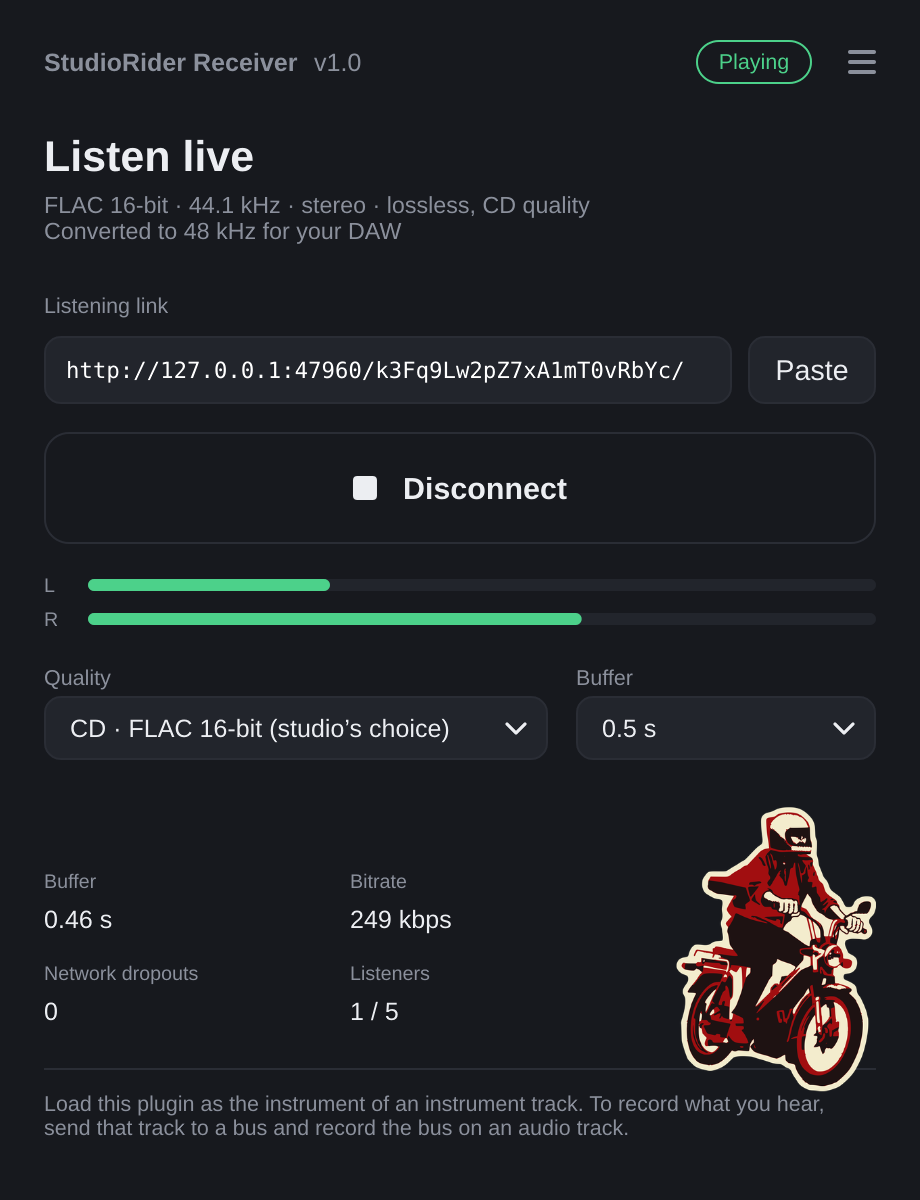
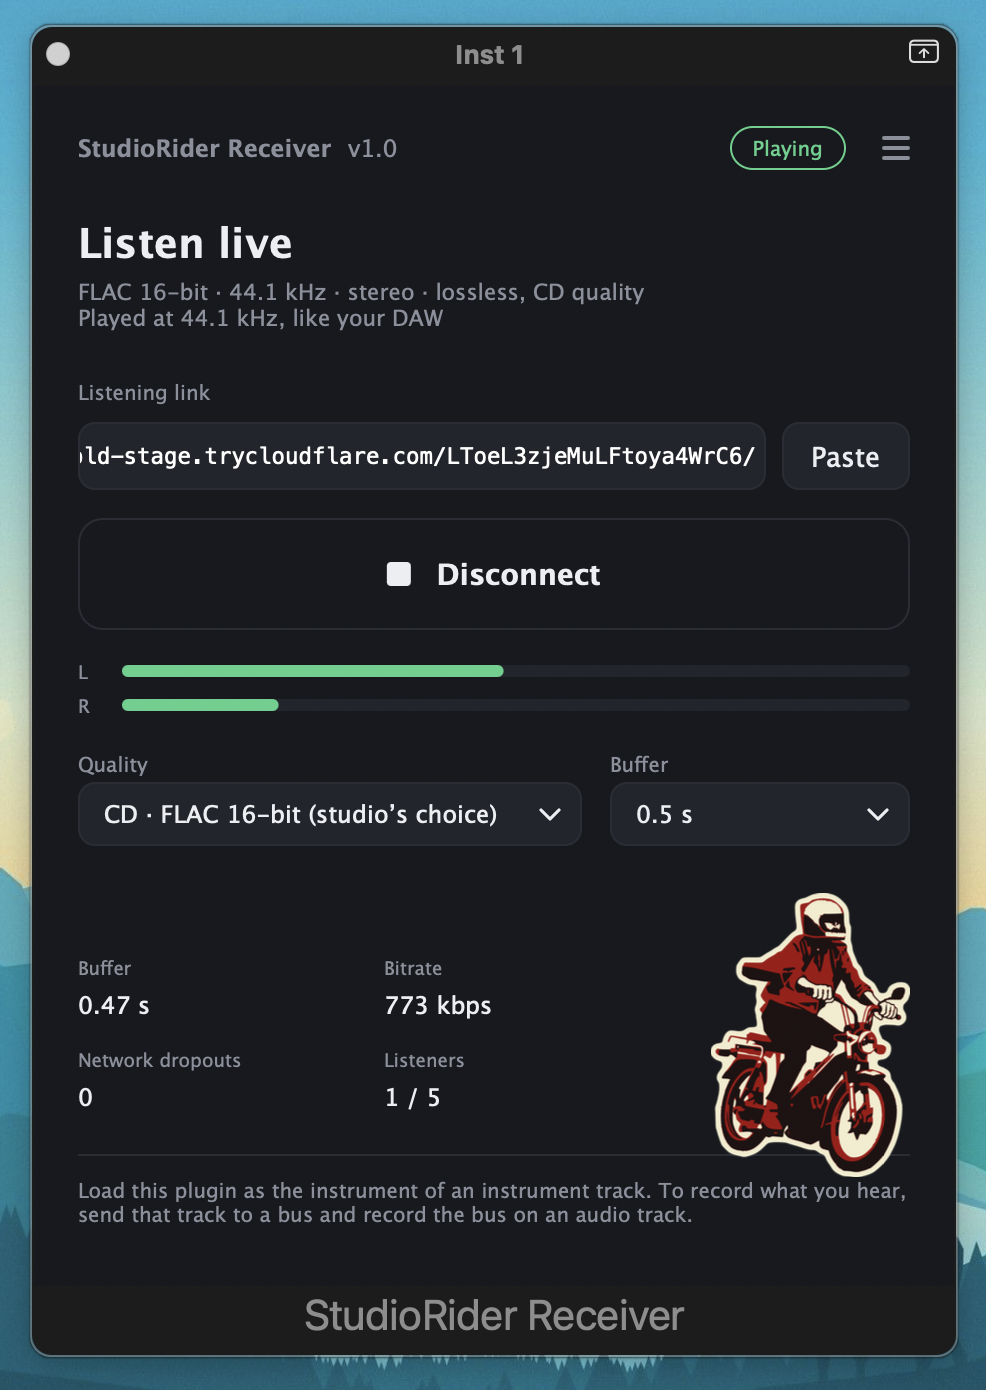
Audio Unit only for now; README: companion plugin, testing phase (Logic Pro only)
The VST3 (and Ableton Live in either format) doesn't work yet: it is put aside
(-DSTUDIORIDER_RECEIVER_VST3=ON still builds it for testing). build.sh installs
the Audio Unit only and removes an earlier test copy of the VST3.

README: explains that the receiver is a companion to StudioRider and plays
nothing without a StudioRider link; the browser stays the normal way to listen.
New screenshot (Logic Pro, instrument track, CD quality).

Claude-Session: https://claude.ai/code/session_018N1PmC7932a6dYeG9RfbW5

diff --git a/README.md b/README.md
@@ -4,61 +4,82 @@
 
 # StudioRider Receiver
 
-A companion plugin for [StudioRider](https://github.com/Creme74/StudioRider).
+**A companion plugin for [StudioRider](https://github.com/Creme74/StudioRider).
+It does nothing on its own: it needs a listening link from StudioRider.**
 
-StudioRider lets someone listen to your DAW in a web browser: the listener needs
-nothing but the link. **StudioRider Receiver** is for listeners who would rather
-have the stream inside their own DAW, to monitor it next to their own tracks or
-to record it. It is optional: nothing changes for StudioRider users.
+> **Testing phase.** StudioRider Receiver is still being tested. To date it has
+> been tested and works **only in Logic Pro, as an Audio Unit**, on macOS.
+> Ableton Live does not work yet (neither as an Audio Unit nor as a VST3), and
+> the VST3 version is put aside for now. Other DAWs that load Audio Units are
+> untested. Reports are welcome in the [issues](../../issues).
+
+## What it is
+
+[StudioRider](https://github.com/Creme74/StudioRider) is a plugin that a studio
+puts on its master track: it shares what the DAW plays through a free public
+link, and **the listener only needs a web browser, nothing to install**. That
+stays the normal way to listen.
+
+StudioRider Receiver is for the listener who would rather receive that same link
+**inside their own DAW**: to hear the studio next to their own tracks, or to
+**record** the stream. It is optional, and nothing changes for the studio: it
+shares the same link as usual, and the receiver counts as one of its listeners.
 
 ```
-Studio:   DAW ─► StudioRider ─► Cloudflare link ─┬─► web browser (no install)
-Listener:                                        └─► DAW ─► StudioRider Receiver
+Studio:    DAW ─► StudioRider ─► public link ─┬─► web browser (nothing to install)
+Listener:                                     └─► DAW ─► StudioRider Receiver
 ```
+
+Without a link from a studio running StudioRider, the receiver has nothing to
+play.
 
 <p align="center">
-  <img src="docs/images/receiver.png" width="45%" alt="The StudioRider Receiver window: link, Connect/Disconnect, level meters, quality and buffer, stats">
+  <img src="docs/images/receiver.png" width="46%" alt="StudioRider Receiver playing a StudioRider link in CD quality, as the instrument of an instrument track">
 </p>
 
-- macOS 13 Ventura or later. Audio Unit and VST3.
-- Works with links from StudioRider 1.0 and later.
+## Requirements
+
+- macOS 13 Ventura or later, Apple Silicon.
+- A DAW that loads Audio Units. Tested: Logic Pro only (see above).
+- A StudioRider listening link (StudioRider 1.0 or later, on the studio's side).
 
 ## Installing
 
 There is no installer yet: build it from source (see [Building](#building)).
-Double-click **Build StudioRider Receiver.command**: it builds the plugin, puts
-it in your own `~/Library/Audio/Plug-Ins` folder and checks the Audio Unit.
-Then quit and reopen your DAW.
+Double-click **Build StudioRider Receiver.command**: it builds the Audio Unit,
+puts it in your own `~/Library/Audio/Plug-Ins/Components` folder and checks it
+(`auval`). Then quit and reopen your DAW.
 
-## Using it
+## Using it (Logic Pro)
 
-1. Create an **instrument track** and load **StudioRider Receiver** as its
-   instrument. As an Audio Unit, it is listed under **AU MIDI-controlled
-   Effects** (it ignores MIDI).
-2. Paste the link the studio sent you (**Paste**), then click **Connect**.
-3. To record what you hear, send that track to a bus and record the bus on an
+1. Ask the studio for its StudioRider link (it changes each time the studio
+   starts sharing).
+2. Create a **software instrument track** and load **StudioRider Receiver** as
+   its instrument: it is listed under **AU MIDI-controlled Effects** (it ignores
+   MIDI).
+3. Paste the link (**Paste**), then click **Connect**. The window shows the
+   format, the buffer, the bitrate and the level.
+4. To record what you hear, send that track to a bus and record the bus on an
    audio track.
 
-Why an instrument track: some DAWs never run an effect on an audio or aux track
-that carries no sound, to save CPU. The receiver's input is always silent (the
+Why an instrument track: Logic Pro doesn't run an effect on an audio or aux track
+that carries no sound, to save CPU. The receiver's input is always silent (its
 sound comes from the network), so there it would never be asked for audio. An
-instrument track is always run. If the plugin isn't run, its window says
-**Not processed**, and its meters still show the sound that arrives.
+instrument track is always run. If the plugin isn't run, its window says **Not
+processed**, and its meters still show the sound that arrives.
 
-**Quality** works as on the listening page: the studio's choice by default, or a
-lighter quality; the studio never sends more than its own setting. **Buffer** is
-the delay kept against network hiccups (0.5 s by default). The sound comes out at
-100 % (no volume control in the plugin: use the track's fader), converted to the
-DAW's sample rate. The two machines' clocks never run at exactly the same speed:
-the receiver follows the difference (a few dozen ppm, inaudible), so the buffer
-neither empties nor fills up over time.
+**Quality** works as on StudioRider's listening page: the studio's choice by
+default, or a lighter quality; the studio never sends more than its own setting.
+**Buffer** is the delay kept against network hiccups (0.5 s by default). The
+sound comes out at 100 % (no volume control in the plugin: use the track's
+fader), converted to the DAW's sample rate. The two machines' clocks never run at
+exactly the same speed: the receiver follows the difference (a few dozen ppm,
+inaudible), so the buffer neither empties nor fills up over time.
 
 The link is saved with the project, but opening a project never connects by
 itself. If the studio stops sharing, the receiver says so; if the connection
 drops, it reconnects on its own and gives up after 2 minutes. A StudioRider link
 accepts 5 listeners at a time, browsers and receivers together.
-
-The **☰** menu has **About** and **Check for updates**.
 
 ## How it works
 
@@ -79,15 +100,19 @@ The **☰** menu has **About** and **Check for updates**.
 On a Mac with Apple's Command Line Tools (`xcode-select --install`): double-click
 **Build StudioRider Receiver.command**, or run `./build.sh`. It downloads JUCE,
 libFLAC and libopus at the versions pinned in `scripts/common.sh` (CMake is
-installed with Homebrew if missing).
+installed with Homebrew if missing). The VST3 can still be built for testing
+(`-DSTUDIORIDER_RECEIVER_VST3=ON`), but it doesn't work yet.
 
 Tests (macOS or Linux): `scripts/run_tests.sh` (on Linux, `xvfb-run
 scripts/run_tests.sh`). They download StudioRider's sources and run its real
 server: FLAC bit-exactness, Opus, resampling quality, clock drift, quality
 changes, full studio, expired link, "Stop sharing", saved state, "Not
-processed", and screenshots of the window in `build/screenshots`.
+processed", and screenshots of the window in `build/screenshots`. They can't
+tell what a real DAW does with the plugin: that is what the testing phase is for.
 
 ## Licence
 
 GNU General Public License, version 3 or later: see [LICENSE](LICENSE). Third-party
 software and licences: [THIRD_PARTY_NOTICES.md](THIRD_PARTY_NOTICES.md).
+Logic Pro and Audio Units are trademarks of Apple Inc.; Ableton Live is a
+trademark of Ableton AG. StudioRider Receiver is not affiliated with them.

diff --git a/THIRD_PARTY_NOTICES.md b/THIRD_PARTY_NOTICES.md
@@ -12,7 +12,7 @@ of it is modified.
 | Software | Version | Licence |
 |---|---|---|
 | [JUCE](https://github.com/juce-framework/JUCE) | 9.0.4 | AGPL-3.0-only (or the commercial JUCE licence) |
-| VST3 SDK (Steinberg, included in JUCE) | | MIT |
+| VST3 SDK (Steinberg, included in JUCE; VST3 version only, not published yet) | | MIT |
 | AudioUnitSDK (Apple, included in JUCE) | | Apache-2.0 |
 | [libFLAC](https://github.com/xiph/flac) | 1.5.0 | BSD-3-Clause |
 | [libopus](https://github.com/xiph/opus) | 1.5.2 | BSD-3-Clause |
